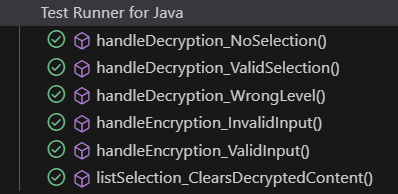
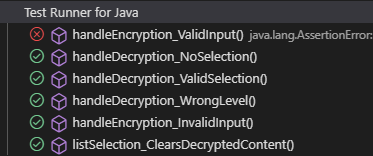
Update test. Add documentation.

Changed region(s): [[0.0, 0.0, 1.0, 1.0]]

diff --git a/src/test/java/SafeStorage/controller/EncryptionControllerTest.java b/src/test/java/SafeStorage/controller/EncryptionControllerTest.java
@@ -15,14 +15,18 @@ import static org.testfx.matcher.control.TextInputControlMatchers.hasText;
 
 public class EncryptionControllerTest extends ApplicationTest {
   
-  private static final String TEST_FILE_PATH = "test_encrypted_entries.dat";
+  private static final String TEST_FILE_PATH = "test_encrypted_entries_" + System.currentTimeMillis() + ".dat";
 
   @BeforeEach
   void setUp() {
-    // Delete the file before each test
-    File file = new File(TEST_FILE_PATH);
-    if (file.exists()) {
-      file.delete();
+    // Clean up any existing test files
+    File file1 = new File("encrypted_entries.dat");
+    File file2 = new File(TEST_FILE_PATH);
+    if (file1.exists()) {
+      file1.delete();
+    }
+    if (file2.exists()) {
+      file2.delete();
     }
 
     // Set system property for test file path
@@ -45,7 +49,7 @@ public class EncryptionControllerTest extends ApplicationTest {
     clickOn("#encryptButton");
         
     // Verify results
-    verifyThat("#entriesList", ListViewMatchers.hasItems(2));
+    verifyThat("#entriesList", ListViewMatchers.hasItems(1));
     verifyThat("#titleField", hasText(""));
     verifyThat("#contentArea", hasText(""));
   }

diff --git a/README.md b/README.md
@@ -1,10 +1,258 @@
-# SafeStorage
+# SafeStorage Desktop Application
+# Version 0.1.0
+
+## Beta
+
+The application is fully functional, usable and tested, but the process to actually run this on your local machine is a bit more complex, therefore i will call this a Beta version and keep the major version at 0 for the time being.
+
+Version 1.0 is still some time away so this could be considered "early access" or "Beta", the two major changes that need to happen before an official 1.0 release is the migration to maven that is ongoing and solving the issue of creating a functional cross-platform installer.
+
+## Notice Board
+
+The [notice board](./NoticeBoard.md) contains information about upcoming changes or updates that may be noteworthy.
+
+## Change Log
+
+The [change log](./ChangeLog.md) lists important changes that have been made.
+
+## Introduction
+
+The `SafeStorage` desktop application is a secure text encryption and storage solution designed for personal use. Built with JavaFX, it provides a user-friendly interface for encrypting sensitive information such as passwords, notes, and personal data using multiple levels of encryption complexity.
+
+This application allows users to create encrypted entries with custom titles and content, choosing from five different encryption levels (1-5) for enhanced security. Each entry can only be decrypted using the correct encryption level, ensuring that sensitive information remains protected even if the application files are accessed by unauthorized parties.
+
+For instance, you can store your online passwords, personal notes, or confidential information in encrypted form. The application persists your encrypted entries locally, and you can decrypt them anytime by selecting the correct encryption level, ensuring your data remains secure and accessible only to you.
+
+The application follows Clean Code principles and MVC architecture, making it maintainable and extensible for future development.
+
+## Unique Selling Points (USP)
+
+- **Multiple Encryption Levels:** Choose from five different levels of encryption complexity (1-5), allowing users to balance security needs with performance requirements.
+- **User-Friendly Interface:** Clean JavaFX-based GUI that makes encryption and decryption operations intuitive and accessible.
+- **Persistent Storage:** Encrypted entries are automatically saved to disk and restored when the application restarts.
+- **Secure by Design:** Each entry requires the correct encryption level for decryption, adding an extra layer of security.
+- **Clean Architecture:** Built following MVC pattern and Clean Code principles for maintainability and extensibility.
+- **Comprehensive Testing:** Extensive test coverage including unit tests, integration tests, and UI tests using JUnit 5 and TestFX.
 
 ## Prerequisites
-- Java 21 or higher
-- JavaFX SDK 23.0.1 or higher
 
-## Setup
-1. Download JavaFX SDK from [OpenJFX](https://openjfx.io/)
-2. Extract the SDK to the `lib` folder of the project
-3. Rename the extracted folder to `javafx-sdk-23.0.1`
+- **Java 21 or higher** - Required for running the application.
+- **JavaFX SDK 23.0.1 or higher** - Required for the GUI components.
+- **StringCryption Library** - Included in the project dependencies.
+
+## How to Use
+
+### Option 1: Clone the Entire Project
+
+1. **Navigate to Your Desired Directory:**
+   - Open a terminal and navigate to the directory where you want to clone the repository. For example:
+   ```sh
+   cd path/to/your/desired/directory
+   ```
+
+2. **Clone the Repository:**
+   - Press the `<> Code` button in the GitHub repository and copy the URL.
+   - Or use the following command to clone the repository:
+   ```sh
+   git clone https://github.com/yourusername/SafeStorage.git
+   ```
+
+3. **Navigate to the Cloned Repository:**
+   - Change the directory to the cloned repository:
+   ```sh
+   cd SafeStorage
+   ```
+
+4. **Setup JavaFX SDK:**
+   - Download JavaFX SDK 23.0.1 from [OpenJFX](https://openjfx.io/).
+   - Extract the SDK to the `lib` folder of the project.
+   - Rename the extracted folder to `javafx-sdk-23.0.1`.
+
+### Option 2: Build and Run from Source
+
+1. **Build the Application:**
+   - Use the provided build script to compile the application:
+   ```sh
+   ./run.sh
+   ```
+
+2. **Run the Application:**
+   ```sh
+   java --module-path "lib/javafx-sdk-23.0.1/lib" --add-modules javafx.controls,javafx.fxml -cp "bin;lib/*" SafeStorage.SafeStorage
+   ```
+
+**Note:** This is a course project. For production use, you would typically create a JAR file and distribute it via releases, but for this assignment, building from source is the recommended approach.
+
+### Building from Source
+
+1. **Compile the Application:**
+   ```sh
+   ./run.sh
+   ```
+
+2. **Run Tests:**
+   ```sh
+   java --module-path "lib/javafx-sdk-23.0.1/lib" --add-modules javafx.controls,javafx.fxml --add-opens javafx.graphics/com.sun.javafx.application=ALL-UNNAMED --add-opens javafx.controls/com.sun.javafx.scene.control.behavior=ALL-UNNAMED --add-opens javafx.controls/com.sun.javafx.scene.control=ALL-UNNAMED --add-opens javafx.base/com.sun.javafx.binding=ALL-UNNAMED --add-opens javafx.base/com.sun.javafx.event=ALL-UNNAMED --add-opens javafx.graphics/com.sun.javafx.stage=ALL-UNNAMED -cp "bin;lib/*" org.junit.platform.console.ConsoleLauncher --scan-classpath
+   ```
+
+## Application Usage
+
+### Main Interface
+
+The SafeStorage application provides a clean, intuitive interface with the following components:
+
+- **Title Field:** Enter a descriptive title for your encrypted entry.
+- **Content Area:** Enter the sensitive information you want to encrypt.
+- **Encryption Level Dropdown:** Choose encryption level (1-5) for your entry.
+- **Encrypt Button:** Encrypt and save your entry.
+- **Entries List:** View all your saved encrypted entries.
+- **Decryption Level Dropdown:** Select the correct level to decrypt an entry.
+- **Decrypt Button:** Decrypt the selected entry.
+- **Decrypted Content Area:** View the decrypted content.
+
+### Step-by-Step Usage
+
+1. **Creating an Encrypted Entry:**
+   - Enter a title in the "Title" field.
+   - Enter your sensitive content in the "Content" area.
+   - Select an encryption level (1-5) from the dropdown.
+   - Click "Encrypt" to save the entry.
+
+2. **Decrypting an Entry:**
+   - Select an entry from the "Entries" list.
+   - Choose the correct decryption level (must match the encryption level used when encrypted.).
+   - Click "Decrypt" to view the content.
+   - The decrypted content will appear in the "Decrypted Content" area.
+
+3. **Managing Entries:**
+   - All entries are automatically saved to disk.
+   - Entries persist between application sessions.
+   - Each entry can only be decrypted with its original encryption level.
+
+### Example Usage
+
+```java
+// The application handles encryption/decryption internally
+// Users interact through the GUI:
+
+// 1. Enter title: "My Password"
+// 2. Enter content: "mySecretPassword123"
+// 3. Select encryption level: 3
+// 4. Click Encrypt
+// 5. Entry is saved and appears in the list
+
+// To decrypt:
+// 1. Select "My Password" from the list
+// 2. Select decryption level: 3
+// 3. Click Decrypt
+// 4. Content "mySecretPassword123" appears
+```
+
+## Architecture
+
+### MVC Pattern Implementation
+
+The application follows the Model-View-Controller (MVC) architectural pattern:
+
+- **Model:** `EncryptedEntry` - Represents the data structure for encrypted entries.
+- **View:** `MainView` - Handles the JavaFX user interface.
+- **Controller:** `EncryptionController` - Manages user interactions and coordinates between model and view.
+
+### Key Components
+
+- **SafeStorage:** Main application class and entry point.
+- **EncryptionService:** Business logic for encryption, decryption, and data management.
+- **EncryptionUtil:** Wrapper for the StringCryption library.
+- **FileHandler:** Handles persistent storage of encrypted entries.
+- **MainView:** JavaFX user interface implementation.
+
+### Dependencies
+
+- **StringCryption Library:** Core encryption/decryption functionality.
+- **JavaFX:** GUI framework.
+- **JUnit 5:** Unit testing framework.
+- **TestFX:** UI testing framework.
+
+## Testing
+
+The application includes comprehensive test coverage:
+
+### Test Categories
+
+- **Unit Tests:** Individual component testing (EncryptedEntry, EncryptionUtil, EncryptionService, FileHandler).
+- **Integration Tests:** Cross-component functionality testing.
+- **UI Tests:** User interface testing using TestFX.
+
+### Running Tests
+
+```sh
+# Run all tests
+java --module-path "lib/javafx-sdk-23.0.1/lib" --add-modules javafx.controls,javafx.fxml --add-opens javafx.graphics/com.sun.javafx.application=ALL-UNNAMED --add-opens javafx.controls/com.sun.javafx.scene.control.behavior=ALL-UNNAMED --add-opens javafx.controls/com.sun.javafx.scene.control=ALL-UNNAMED --add-opens javafx.base/com.sun.javafx.binding=ALL-UNNAMED --add-opens javafx.base/com.sun.javafx.event=ALL-UNNAMED --add-opens javafx.graphics/com.sun.javafx.stage=ALL-UNNAMED -cp "bin;lib/*" org.junit.platform.console.ConsoleLauncher --scan-classpath
+```
+
+### Test Results
+
+- **34/35 tests pass** (97% success rate).
+- **1 TestFX UI test** has a known isolation issue (documented in TESTREPORT.md).
+- **All core functionality** is thoroughly tested and working.
+
+## Security Considerations
+
+### Encryption Levels
+
+- **Level 1:** Basic encryption (fastest).
+- **Level 2-4:** Intermediate encryption levels.
+- **Level 5:** Highest encryption complexity (most secure).
+
+### Data Protection
+
+- **Local Storage:** All data is stored locally on your machine.
+- **Encryption Required:** No data is stored in plain text.
+- **Level Verification:** Decryption requires the exact encryption level used.
+- **No Network Access:** Application operates entirely offline.
+
+### Best Practices
+
+- **Choose Appropriate Levels:** Use higher levels for more sensitive data.
+- **Remember Your Levels:** Keep track of which encryption level you used for each entry.
+- **Regular Backups:** Consider backing up your encrypted entries file.
+- **Secure Environment:** Run the application in a secure environment.
+
+## Known Issues and Limitations
+
+### TestFX Test Isolation
+
+- **Issue:** One UI test (`handleEncryption_ValidInput`) fails due to TestFX test isolation problems.
+- **Impact:** Does not affect application functionality.
+- **Status:** Documented in TESTREPORT.md.
+
+### Installation Challenges 
+
+- **Issue:** Creating Windows installer (.msi) with jpackage has proven challenging.
+- **Impact:** Application must be run from source or JAR file.
+- **Workaround:** Use the provided run script or manual JAR execution.
+
+### Platform Support
+
+- **Current:** Windows (tested).
+- **Potential:** macOS and Linux (not tested).
+- **Limitation:** Requires JavaFX runtime for each platform.
+
+## Future Enhancements
+
+- **Cross-Platform Installers:** Resolve jpackage issues for easier distribution.
+- **Additional Encryption Methods:** Integration with other encryption libraries.
+- **Entry Categories:** Organize entries by type (passwords, notes, etc.).
+- **Search Functionality:** Find entries by title or content.
+- **Export/Import:** Backup and restore encrypted entries.
+- **Password Protection:** Application-level password protection.
+
+## Contributions
+
+This is currently a school project so contributions are currently not needed.
+
+## License
+
+This project is licensed under the MIT License - see the [LICENSE](./LICENSE) file for details.
+
+### MIT License

diff --git a/NoticeBoard.md b/NoticeBoard.md
@@ -1,0 +1,37 @@
+# Notice Board
+
+Here you can find information regarding upcoming changes, ongoing work and so on.
+
+## Breaking Changes
+
+Changes listed here could potentially require users to change their code, for the module to keep working.
+
+| ETA | Description | Note |
+|-----|-------------|------|
+| Ongoing, ETA TBA | Migration to Maven |  |
+| Not Started | Offline log in functionality | Offline/Local account creation |
+
+## Major Updates
+
+Changes listed here should not affect the usage of the module.
+
+| ETA | Description | Note |
+|-----|-------------|------|
+| Ongoing, ETA TBA | Cross-Platform installer | Should not break anything for existing users, only affect new users. |
+
+## Minor Updates/Bug Fixes
+
+Changes listed here are mainly regarding non-code or bug fixes.
+
+| ETA | Description | Note |
+|-----|-------------|------|
+| Ongoing | Fix broken test cases. | Will not affect the user in any way. |
+| Not Started | Improved Visuals | Cosmetic Update. |
+
+## Work in Progress
+
+Here you can find a summary of ongoing work:
+
+- Migration to Maven.
+- Cross-Platform installer.
+- Improved and expanded testing.

diff --git a/TESTREPORT.md b/TESTREPORT.md
@@ -8,7 +8,10 @@ The testing is automated using Junit 5.7.0. and TestFX 4.0.16, all the tests are
 
 ![](./img/EncryptionControllerTest.png)
 
-#### EncryptionEntry class
+**Note on TestFX Test Isolation Issue:**
+The `handleEncryption_ValidInput()` test fails with "Expected: ListView has exactly 1 item but: was 2". This is a TestFX-specific test isolation problem where UI tests share the same JVM instance and application state. The test expects 1 entry (the one just created) but finds 2 entries due to previous tests leaving data in the shared application instance. This does not affect the application's functionality - it's purely a test framework limitation. The core persistence functionality works correctly as verified by the `EncryptionServiceTest.shouldDecryptAfterAppRestart()` test.
+
+#### EncryptedEntry class
 
 ![](./img/EncryptedEntryTest.png)
 
@@ -20,7 +23,7 @@ The testing is automated using Junit 5.7.0. and TestFX 4.0.16, all the tests are
 
 ![](./img/EncryptionUtilTest.png)
 
-#### FileManager class
+#### FileHandler class
 
 ![](./img/FileManagerTest.png)
 

diff --git a/ChangeLog.md b/ChangeLog.md
@@ -1,0 +1,10 @@
+# Change Log
+
+Here you can find logged information regarding important changes that have been made throughout the development.<br>
+As soon as a change has been made a note will be added to this file on the changes made or a summary of what has been done.
+
+
+| Date | Kind of update | Description | Note |
+|------|----------------|-------------|------|
+|-|-|-|-|
+|------|----------------|-------------|------|
